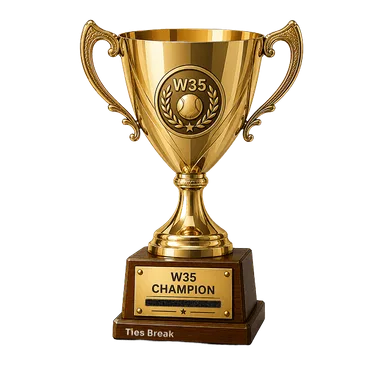
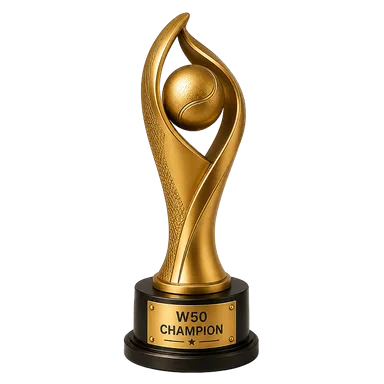
the last two trophy placeholders clear, and the masters stop resurrecting
w50-gold/silver had been the owner's real art for a day, sitting as .png in
public/images/trophies/ and never encoded - raw formats are gitignored and the
guard hashes the shipped .webp, so the registry said placeholder while the art
was already on disk. npm run art encodes .png fine, it just has to be asked.

Also: the sponsor masters kept their pre-rename names in art-src, so every
pipeline run resurrected aurelia/baseline/meridian.webp beside the renamed
tour/premium/icon and tripped the byte-duplicate guard. Masters renamed to match
what ships. A rename is not done until the master is renamed too.

Changed region(s): [[0.1875, 0.0312, 0.8125, 0.9688]]

diff --git a/docs/art-placeholders.md b/docs/art-placeholders.md
@@ -37,8 +37,6 @@ first cell is a backticked path starting with `public/`. Keep the column order.
 
 | asset | kind | counterpart | wave | why |
 |---|---|---|---|---|
-| `public/images/trophies/w50-gold.webp` | `byte-copy` | `public/images/trophies/w35-gold.webp` | W2-LADDER (f4bc579, 02.08) | placeholder – W50 has no master of its own |
-| `public/images/trophies/w50-silver.webp` | `byte-copy` | `public/images/trophies/w35-silver.webp` | W2-LADDER (f4bc579, 02.08) | placeholder – W50 has no master of its own |
 | `public/images/fem-euro-brunnet/fem-euro-brunnet-sleepy-airport.webp` | `byte-copy` | `public/images/fem-euro-brunnet/fem-euro-brunnet-travel-sleepy-airport.webp` | rename (00d6554, 29.07) | leftover – the old name, superseded by the `-travel-` group; nothing reads it |
 | `public/images/fem-euro-brunnet/fem-euro-brunnet-sleepy-bus.webp` | `byte-copy` | `public/images/fem-euro-brunnet/fem-euro-brunnet-travel-sleepy-bus.webp` | rename (00d6554, 29.07) | leftover – the old name, superseded by the `-travel-` group; nothing reads it |
 | `public/images/fem-euro-brunnet/fem-euro-brunnet-sleepy-plane.webp` | `byte-copy` | `public/images/fem-euro-brunnet/fem-euro-brunnet-travel-sleepy-plane.webp` | rename (00d6554, 29.07) | leftover – the old name, superseded by the `-travel-` group; nothing reads it |
@@ -71,6 +69,14 @@ table is machine-read and a row that is still parsed is still a claim.
   owner drew all three (Baseline Athletic → `tour`, Meridian Sport → `premium`, Aurelia → `icon`).
   The rows and the redirect went in the same commit; see "How to clear a row" above for why the
   function was deleted rather than reduced to the identity. All six marks hash distinct.
+- ~~**The last two trophy rows: `w50-gold`, `w50-silver`.**~~ CLEARED 05.08, hours after the twelve
+  above – the owner had already dropped the masters in as `.png` and they had simply not been
+  encoded yet. ⚠ AND THAT IS THE PART WORTH KEEPING: a master sitting in `public/images/trophies/`
+  is INVISIBLE until `npm run art` runs, because the raw formats are gitignored and the shipped
+  `.webp` is what the guard hashes. The pipeline does accept `.png` (`RASTER_RE`), it just has to be
+  asked. The registry said "placeholder" and the art had been there for a day. **After dropping any
+  master, run `npm run art`** – it encodes in place and files the master into `art-src/`. Now
+  `w50-gold` and `w50-silver` hash distinct from `w35`, and `trophies/` holds no byte-duplicate pair.
 
 ### What the two kinds mean
 
